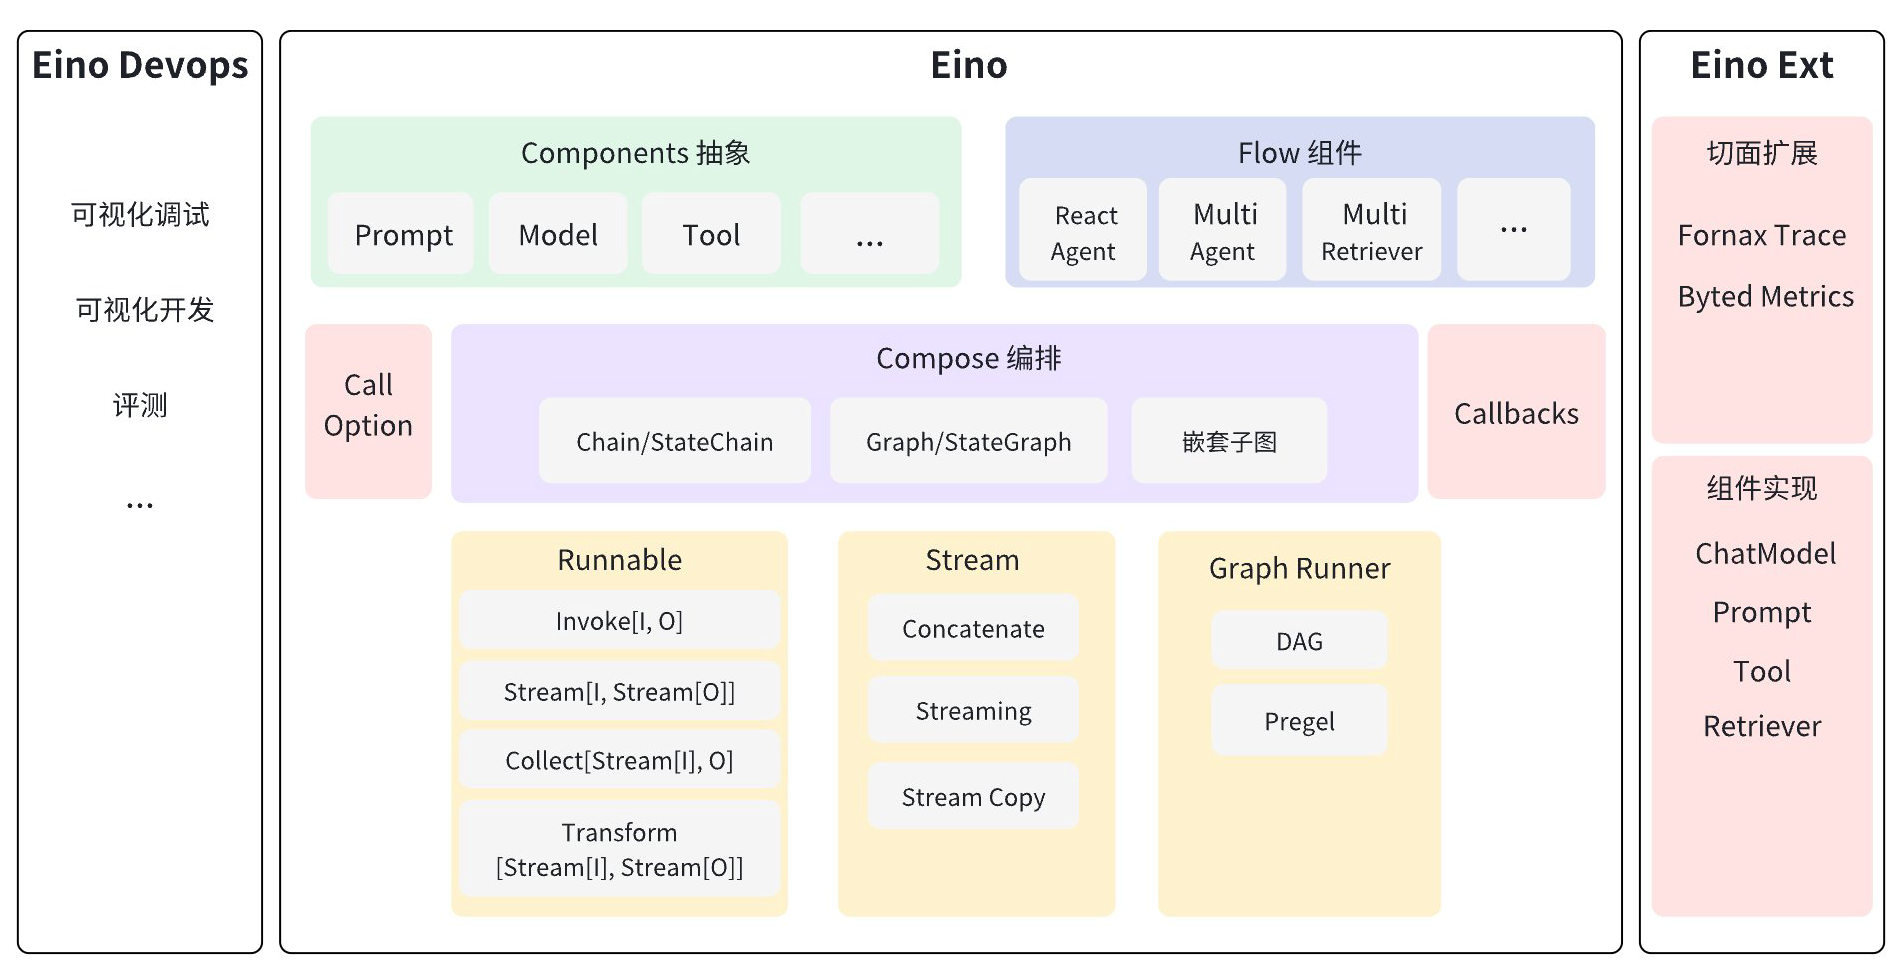
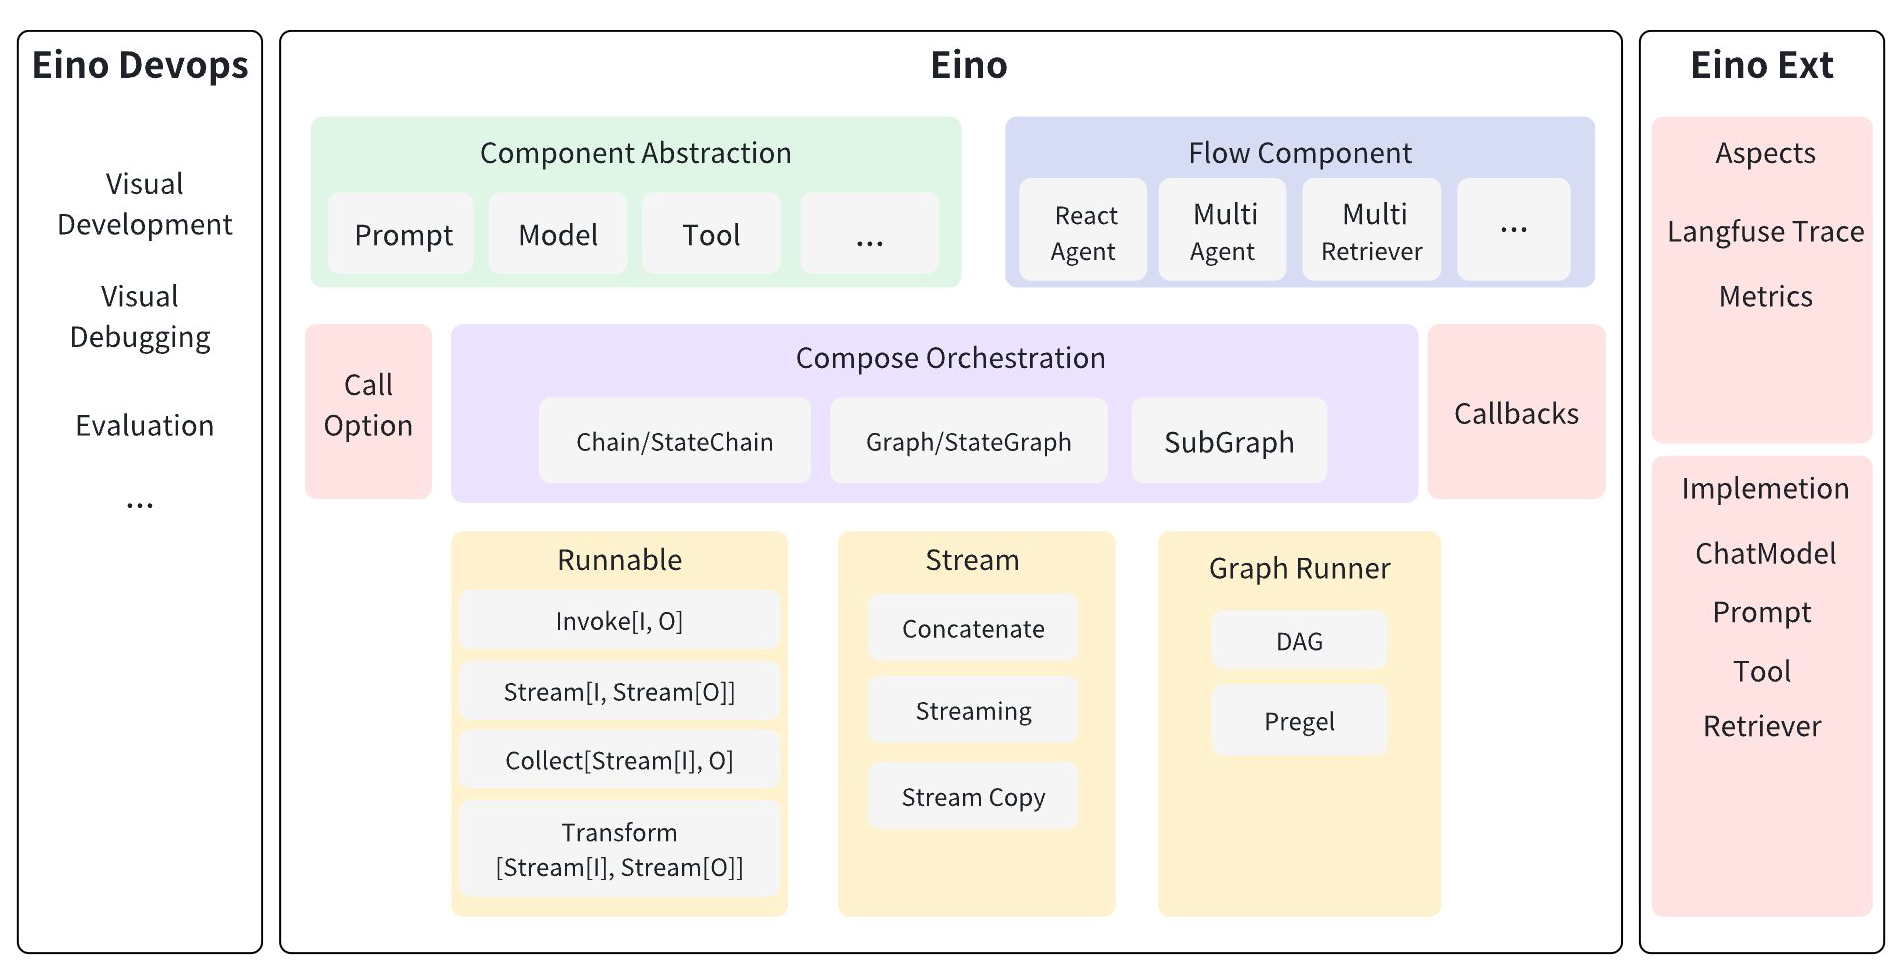
feat: translate to english README

diff --git a/README.md b/README.md
@@ -73,6 +73,10 @@ From the perspective of graph orchestration, Eino provides mechanisms for inject
 
 The Eino framework consists of three parts:
 
+- Eino(Eino Core): Contains Eino's component abstractions, orchestration capabilities like Graph and Chain, aspect mechanisms, etc.
+- EinoExt: Component implementations, common aspect implementations, component usage examples, and various Eino extension capabilities
+- Eino DevOps: Development, debugging, evaluation visualization and management capabilities for Eino
+
 Six core concepts in Eino Core:
 
 - Components Abstraction
@@ -86,7 +90,7 @@ Six core concepts in Eino Core:
 - Flow Integrated Components
     - Provides pre-orchestrated integrated component capabilities for common application scenarios based on the framework's Components and Graph
     - May provide capability to be orchestrated again
-    - Examples: Agent, MapReduce long text summarization, MultiAgent, etc.
+    - Examples: Agent, MultiAgent, Multi Retriever etc.
 
 - Runnable -- Low User Awareness
     - Orchestration objects and products in the orchestration framework
@@ -167,12 +171,10 @@ type Runnable[**I, O any**] interface {
 
     - Conversion between streaming and non-streaming:
       > Using StreamReader[T] and T to represent streaming and non-streaming respectively
-      >
-
-        - Concat
-            - Receive and merge T-Frames in StreamReader[T] into a complete T
-        - Streaming
-            - Convert T into a StreamReader[T] with only one T-Frame for streaming transmission
+      - Concat
+          - Receive and merge T-Frames in StreamReader[T] into a complete T
+      - Streaming
+          - Convert T into a StreamReader[T] with only one T-Frame for streaming transmission
 - Based on these two conversion relationships, Eino can encapsulate any interface with N(N<=4) interaction modes provided by users into a complete Runnable[I, O]
 
 <table>
@@ -347,6 +349,7 @@ chain := NewChain[map[string]any, string]()
 #### **AppendXXX**
 
 > XXX can be ChatModel, Prompt, Indexer, Retriever, Graph and other component types
+> 
 > Chain is a simplified Graph, so Chain and Graph can be nested through AppendGraph
 
 - Connect multiple Nodes head-to-tail in the order they are added, with data passing and execution occurring sequentially through the connected Nodes

diff --git a/README.zh_CN.md b/README.zh_CN.md
@@ -75,6 +75,10 @@ Eino 像 LangChain 一样，提供了完善地回调系统，允许开发者在 
 
 Eino 框架整体由 三部分 构成：
 
+- Eino(Eino Core)：存放 Eino 的组件抽象，Graph、Chain 等编排能力，切面机制等
+- EinoExt：Eino 的组件实现、通用切面实现、组件使用示例等，可放置各种各样的Eino扩展能力
+- Eino Devops：Eino 相关的开发、调试、评测等可视化、管理能力。
+
 Eino Core 中的六大概念：
 
 - Components 抽象
@@ -89,7 +93,7 @@ Eino Core 中的六大概念：
 
     - 基于框架中的 Component、Graph ，针对常见的应用场景，提供开箱即用的预先编排好的集成组件能力。
     - 可能提供再次被编排的能力
-    - 例如：Agent、MapReduce 长文本总结、MultiAgent 等
+    - 例如：Agent、MultiAgent、Multi Retriever 等
 - Runnable -- 用户弱感知
 
     - 编排框架中的编排对象和编排产物。
@@ -170,12 +174,10 @@ type Runnable[**I, O any**] interface {
 
     - 流与非流间的转换：
       > 用 StreamReader[T] 和 T 分别指代 流 和 非流
-      >
-
-        - 合并(Concat)
-            - 将 StreamReader[T] 中的 T-Frame 接收完整，并合并成一个完整的 T
-        - 流化(Streaming)
-            - 将 T 转换成仅有一个 T-Frame 的 StreamReader[T]，进行流式传输
+      - 合并(Concat)
+          - 将 StreamReader[T] 中的 T-Frame 接收完整，并合并成一个完整的 T
+      - 流化(Streaming)
+          - 将 T 转换成仅有一个 T-Frame 的 StreamReader[T]，进行流式传输
 - 基于上述两种转换关系，Eino 便可根据用户提供的具有任意 N(N<=4) 种交互模式的接口，封装转换成一个完整的 Runnable[I, O]
 
 <table>
@@ -353,6 +355,7 @@ chain := NewChain[map[string]any, string]()
 #### **AppendXXX**
 
 > XXX 可是 ChatMode、Prompt、Indexer、Retriever、Graph 等多种组件类型
+> 
 > Chain 是简化的 Graph，因此可通过 AppendGraph 实现 Chain 和 Graph 的相互嵌套
 
 - 将多个 Node 按照传入顺序首尾串联，串联的 Node 依次进行数据传递和执行
